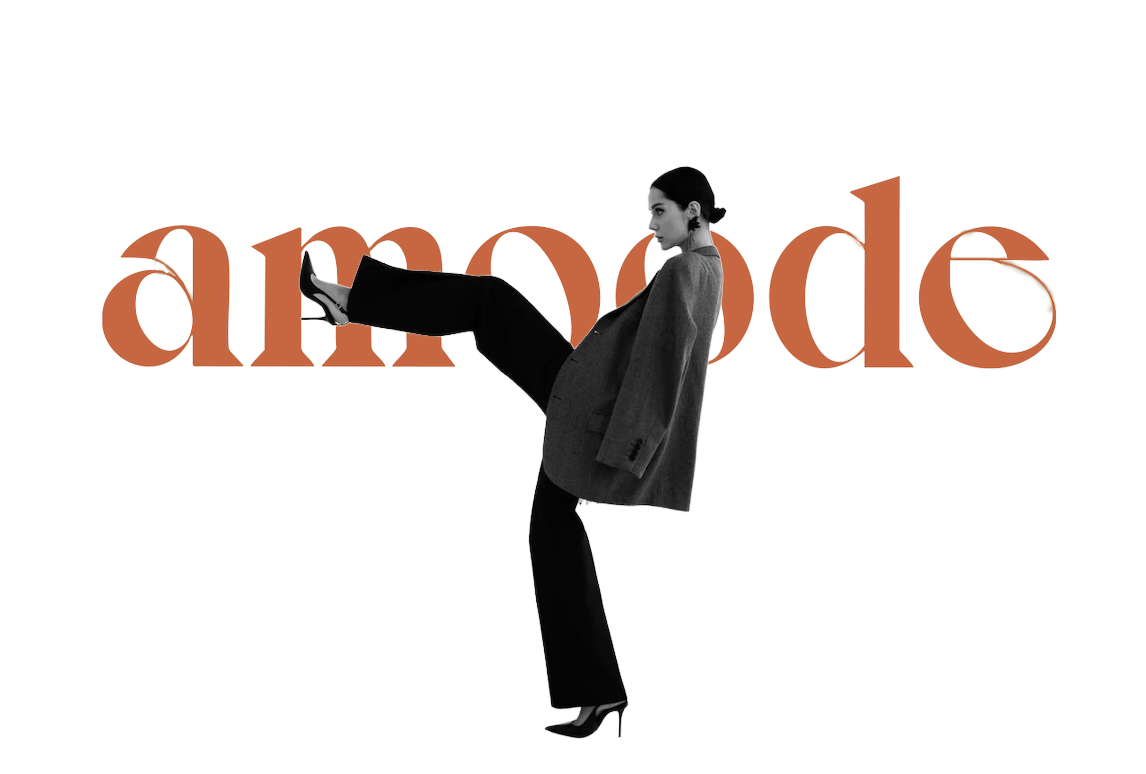
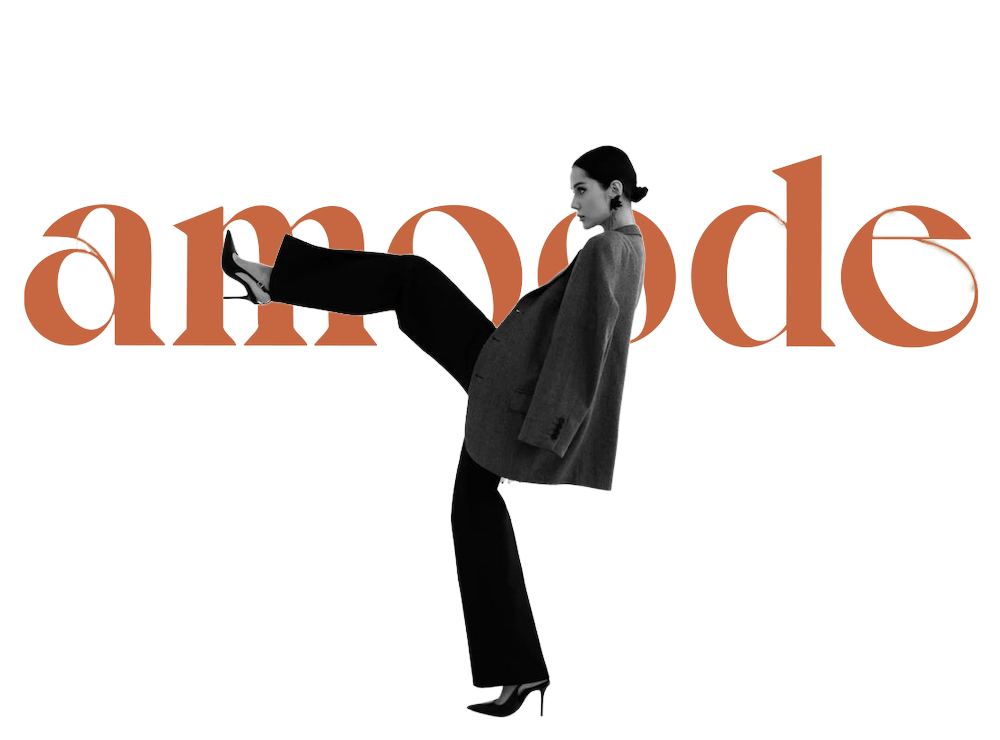
ændringer til slutresultat

Changed region(s): [[0.0, 0.2486, 0.558, 0.9635], [0.496, 0.1865, 0.992, 0.6838]]

diff --git a/css/stylesheet.css b/css/stylesheet.css
@@ -1,67 +1,180 @@
-.header{
-  position: sticky;
-  top: 0;
-  z-index: 10;
-  display: grid;
-  grid-template-columns: 1fr auto 1fr;
-  align-items: center;
-  padding: 12px 16px;
-  background: transparent;
-  height: 72px;
+* {
+  box-sizing: border-box;
+  margin: 0;
+  padding: 0;
 }
 
-.burger{
+body {
+  font-family: system-ui, -apple-system, BlinkMacSystemFont, "Segoe UI", sans-serif;
+  color: #111;
+  background: linear-gradient(
+    to bottom,
+    #e4c7a7 0%,
+    #d7d3cd 35%,
+    #d0d0d0 55%,
+    #e3c8a8 100%
+  );
+}
+
+img {
+  display: block;
+  max-width: 100%;
+  height: auto;
+}
+
+.header {
+  display: flex;
+  align-items: center;
+  justify-content: space-between;
+  padding: 1rem 1.5rem;
+  position: relative;
+  z-index: 10;
+}
+
+.burger {
   background: none;
   border: none;
   padding: 0;
   cursor: pointer;
-  justify-self: start;
 }
 
-.burger img{
+.burger img {
   width: 24px;
-  height: auto;
+  height: 24px;
 }
 
-.logo{
-  justify-self: center;
+.logo img {
+  height: 40px;
+  width: auto;
 }
 
-.logo img{
-  width: 110px;
-  height: auto;
-}
-
-.header-ikoner{
+.header-ikoner {
   display: flex;
-  gap: 12px;
-  justify-self: end;
+  align-items: center;
+  gap: 0.8rem;
+}
+
+.header-ikoner .ikon img {
+  width: 22px;
+  height: 22px;
+}
+
+main {
+  width: 100%;
+}
+
+.hero-1,
+.hero-2,
+.hero-3,
+.hero-4,
+.hero-5,
+.hero-6 {
+  position: relative;
+  width: 100%;
+}
+
+.hero-1 img,
+.hero-2 img,
+.hero-3 img,
+.hero-4 img,
+.hero-5 img,
+.hero-6 img {
+  width: 100%;
+  height: auto;
+}
+
+
+.hero-btn {
+  position: absolute;
+  right: 5%;
+  bottom: 8%;
+  padding: 0.7rem 1.8rem;
+  background: #ffffff;
+  color: #333333;
+  border-radius: 999px;
+  border: 1px solid #ffffff;
+  text-decoration: none;
+  font-size: 0.95rem;
+}
+
+.style-row {
+  width: 100%;
+  padding: 2rem 1.5rem 4rem;
+  display: flex;
+  flex-direction: column;
+  gap: 1.5rem;
   align-items: center;
 }
 
-.ikon img{
-  width: 24px;
-  height: auto;
-}
-
-body{
-  margin: 0;
-  background: linear-gradient(to bottom, #d9c6a5 0%, #c9c9c9 100%);
-}
-
-.hero-1{
-  position: relative;
+.product {
   width: 100%;
-  height: 90vh;
-  overflow: hidden;
+  max-width: 320px;
 }
 
-.hero-amoode{
-  position: absolute;
-  left: 50%;
-  top: 50%;
-  transform: translate(-50%, -50%);
-  width: 120%;
+.product img {
+  width: 100%;
   height: auto;
 }
 
+.site-footer {
+  background: linear-gradient(#dcdcdc, #b3b3b3);
+  padding: 3rem 1.5rem;
+  color: #ffffff;
+  font-size: 0.95rem;
+}
+
+.footer-columns {
+  max-width: 1200px;
+  margin: 0 auto;
+  display: grid;
+  grid-template-columns: 1fr;
+  gap: 2rem;
+}
+
+.footer-col p {
+  line-height: 1.6;
+  font-weight: 300;
+}
+
+.footer-col.center p {
+  text-transform: lowercase;
+  padding: 0.2rem 0;
+}
+
+@media (min-width: 768px) {
+  .header {
+    padding: 1.2rem 3rem;
+  }
+
+  .hero-btn {
+    right: 8%;
+    bottom: 12%;
+  }
+
+  .style-row {
+    flex-direction: row;
+    justify-content: center;
+    align-items: flex-start;
+  }
+
+  .product {
+    max-width: 260px;
+  }
+
+  .footer-columns {
+    grid-template-columns: 2fr 1fr 1fr;
+    align-items: flex-start;
+  }
+
+  .footer-col.left {
+    max-width: 420px;
+  }
+
+  .footer-col.center {
+    text-align: left;
+  }
+
+  .footer-col.right {
+    text-align: right;
+  }
+}

diff --git a/index.html b/index.html
@@ -28,19 +28,70 @@
 </header>
 
 <body>
+<main>
 
-    <main>
+  <section class="hero-1">
+    <img src="img/hero 1.png" alt="Hero 1">
+    <a href="#" class="hero-btn">shop nu</a>
+  </section>
 
-      <section class="hero-1">
-  <img src="img/hero 1.png" alt="" class="hero-amoode">
-  
-</section>
+  <section class="hero-2">
+    <img src="img/hero 2.png" alt="Hero 2">
 
+    <div class="style-row">
+      <div class="product">
+        <img src="img/style 1.png" alt="Produkt 1">
+      </div>
+      <div class="product">
+        <img src="img/style 2.png" alt="Produkt 2">
+      </div>
+      <div class="product">
+        <img src="img/style 3.png" alt="Produkt 3">
+      </div>
+    </div>
 
+    <a href="#" class="hero-btn">se alle</a>
+  </section>
 
+  <section class="hero-3">
+    <img src="img/hero 3.png" alt="Hero 3">
+  </section>
 
+  <section class="hero-4">
+    <img src="img/hero 4.png" alt="Hero 4">
+  </section>
 
-    </main>
+  <section class="hero-5">
+    <img src="img/hero 5.png" alt="Hero 5">
+  </section>
+
+  <section class="hero-6">
+    <img src="img/hero 6.png" alt="Hero 6">
+    <a href="#" class="hero-btn">læs mere</a>
+  </section>
+
+</main>
+
+<footer class="site-footer">
+  <div class="footer-columns">
+
+    <div class="footer-col left">
+      <p>AMOODE er et dansk tøjbrand, der skaber styles i begrænsede antal af restmetervarer fra Portugal – med afslappede pasformer og kvalitet, der holder længe i garderoben.</p>
+    </div>
+
+    <div class="footer-col center">
+      <p>om os</p>
+      <p>ansvarlighed</p>
+      <p>kontakt os</p>
+    </div>
+
+    <div class="footer-col right">
+      <p>farverstræde 5<br>6000, kolding</p>
+      <p>CVR DK44332086</p>
+    </div>
+
+  </div>
+</footer>
     
 </body>
 </html>
